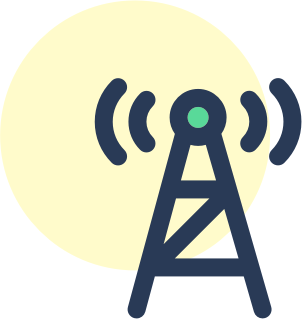
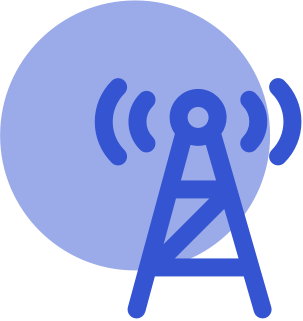
Change brand colors

diff --git a/app/assets/stylesheets/pages/_home.scss b/app/assets/stylesheets/pages/_home.scss
@@ -15,14 +15,15 @@ body {
 
 #features-title {
   font-family: 'Dosis', sans-serif;
+  font-weight: 800;
   font-size: 50px;
   line-height: 80px;
-  border-bottom: 10px $brand-primary solid;
   padding-bottom: 20px;
   padding-top: 20px;
   padding-top: 0;
   margin-top: 0;
   display: inline-block;
+  color: white;
 }
 
 .features-icon {
@@ -32,15 +33,15 @@ body {
 
 #features {
   padding-top: 30px;
-  padding-bottom: 30px;
+  padding-bottom: 100px;
 }
 
 #search-section {
-  background-color: #FFE869;
   padding-top: 30px;
   padding-bottom: 100px;
   h2 {
     border-bottom: none;
+    color: $blue;
   }
   form {
     margin-top: 30px;
@@ -61,4 +62,14 @@ body {
   z-index: 1;
   background-color: white;
   color: inherit;
+}
+
+#features-wrapper {
+  background-color: #3454D1;
+}
+
+#features-items {
+  background-color: white;
+  padding: 30px;
+  box-shadow: 0 0 30px rgba(0, 0, 0, 0.25);
 }

diff --git a/app/assets/stylesheets/layout/_navbar.scss b/app/assets/stylesheets/layout/_navbar.scss
@@ -4,11 +4,10 @@
   transition: all 0.3s ease;
   display: flex;
   height: 70px;
-  padding: 0px 30px;
+  padding: 0px;
   align-items: center;
   justify-content: space-between;
   color: black;
-  position: absolute;
   width: 100%;
   a {
     color: white;
@@ -29,6 +28,7 @@
 .navbar-wagon-brand {
   font-size: 30px;
   font-family: 'Dosis', sans-serif;
+  font-weight: 800;
 
   a {
     color: white;
@@ -148,15 +148,20 @@
 
 .navbar-classic {
   position: static;
-  a {
-    color: black;
+  .navbar-wagon-item {
+    color: $blue;
   }
   .navbar-wagon-brand {
   a {
-    color: #57D1C9;
+    color: $blue;
   }
   }
   .dropdown-toggle {
-    color: black;
+    color: $blue;
   }
+}
+
+.navbar-wrapper {
+  position: absolute;
+  width: 100%;
 }

diff --git a/app/assets/stylesheets/components/_banner.scss b/app/assets/stylesheets/components/_banner.scss
@@ -11,7 +11,10 @@
   .btn-primary {
     box-shadow: 0px 0px 30px RGBA(237, 84, 133, 0.5);
     margin-right: 10px;
+    background-color: $pink;
+    border: none;
   }
+  border: none;
   .btn {
     margin-bottom: 10px;
   }
@@ -19,7 +22,7 @@
 .banner h1 {
   font-family: 'Dosis', sans-serif;
   font-size: 50px;
-  font-weight: bold;
+  font-weight: 800;
   text-shadow: 0px 1px rgba(0, 0, 0, 0.2);
   text-transform: uppercase;
   border-bottom: none;

diff --git a/app/assets/javascripts/app/home.js b/app/assets/javascripts/app/home.js
@@ -2,7 +2,7 @@ $(function() {
   $("#btn-scroll").click(function(e) {
     e.preventDefault;
     $('html, body').animate({
-      scrollTop: $('#comment-ca-marche').offset().top}, 'slow'
+      scrollTop: $('#comment-ca-marche').offset().top - 50}, 'slow', 'easeOutExpo'
       );
   });
 

diff --git a/app/assets/stylesheets/config/_bootstrap_variables.scss b/app/assets/stylesheets/config/_bootstrap_variables.scss
@@ -13,7 +13,7 @@ $headings-font-family:    $header-font;
 // Semantic color scheme
 // => http://getbootstrap.com/customize/#colors
 $gray-base:       $gray;
-$brand-primary:   $pink;
+$brand-primary:   $blue;
 $brand-success:   $green;
 $brand-info:      $yellow;
 $brand-danger:    $red;

diff --git a/app/assets/stylesheets/config/_variables.scss b/app/assets/stylesheets/config/_variables.scss
@@ -24,10 +24,10 @@ $base-height: 1.4;
  * Colors
  * ------------------------------------- */
 // Scheme
-$brand-color: #D23333;
+$brand-color: #3454D1;
 
 $red: #EE5F5B;
-$blue: #469AE0;
+$blue: #3454D1;
 $yellow: #FFE869;
 $orange: #E67E22;
 $green: #57D1C9;

diff --git a/app/assets/stylesheets/layout/_utilities.scss b/app/assets/stylesheets/layout/_utilities.scss
@@ -39,9 +39,7 @@ p {
 
 h1 {
   font-family: 'Dosis', sans-serif;
-  border-bottom: 10px $brand-primary solid;
-  padding-bottom: 20px;
-  display: inline-block;
+  font-weight: 800;
 }
 
 #body-wrapper {
